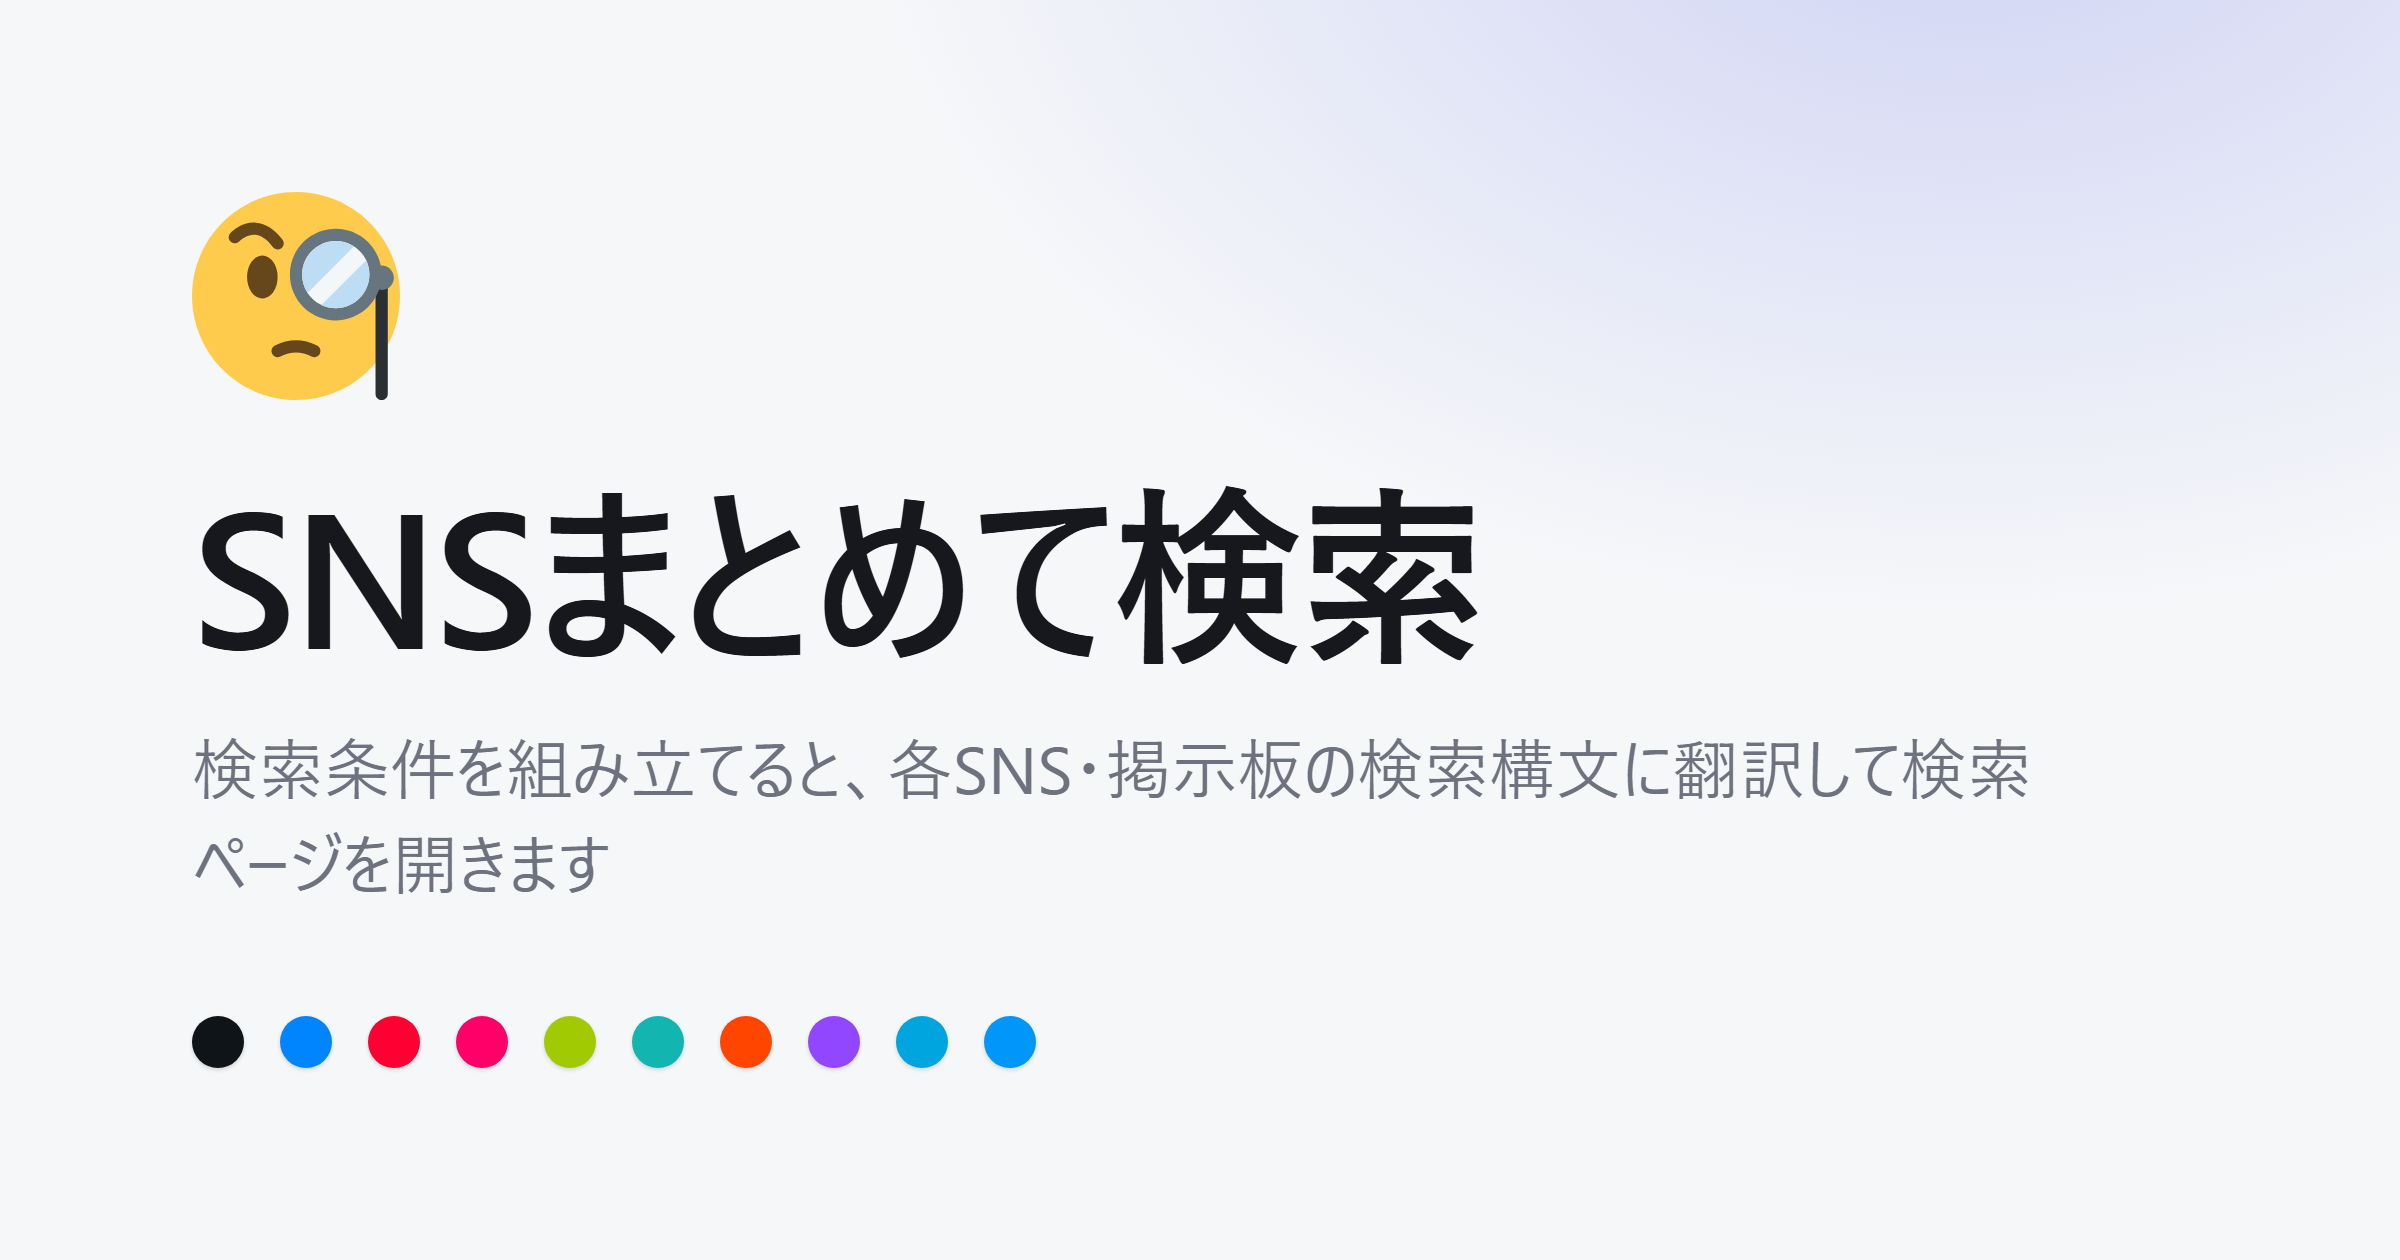
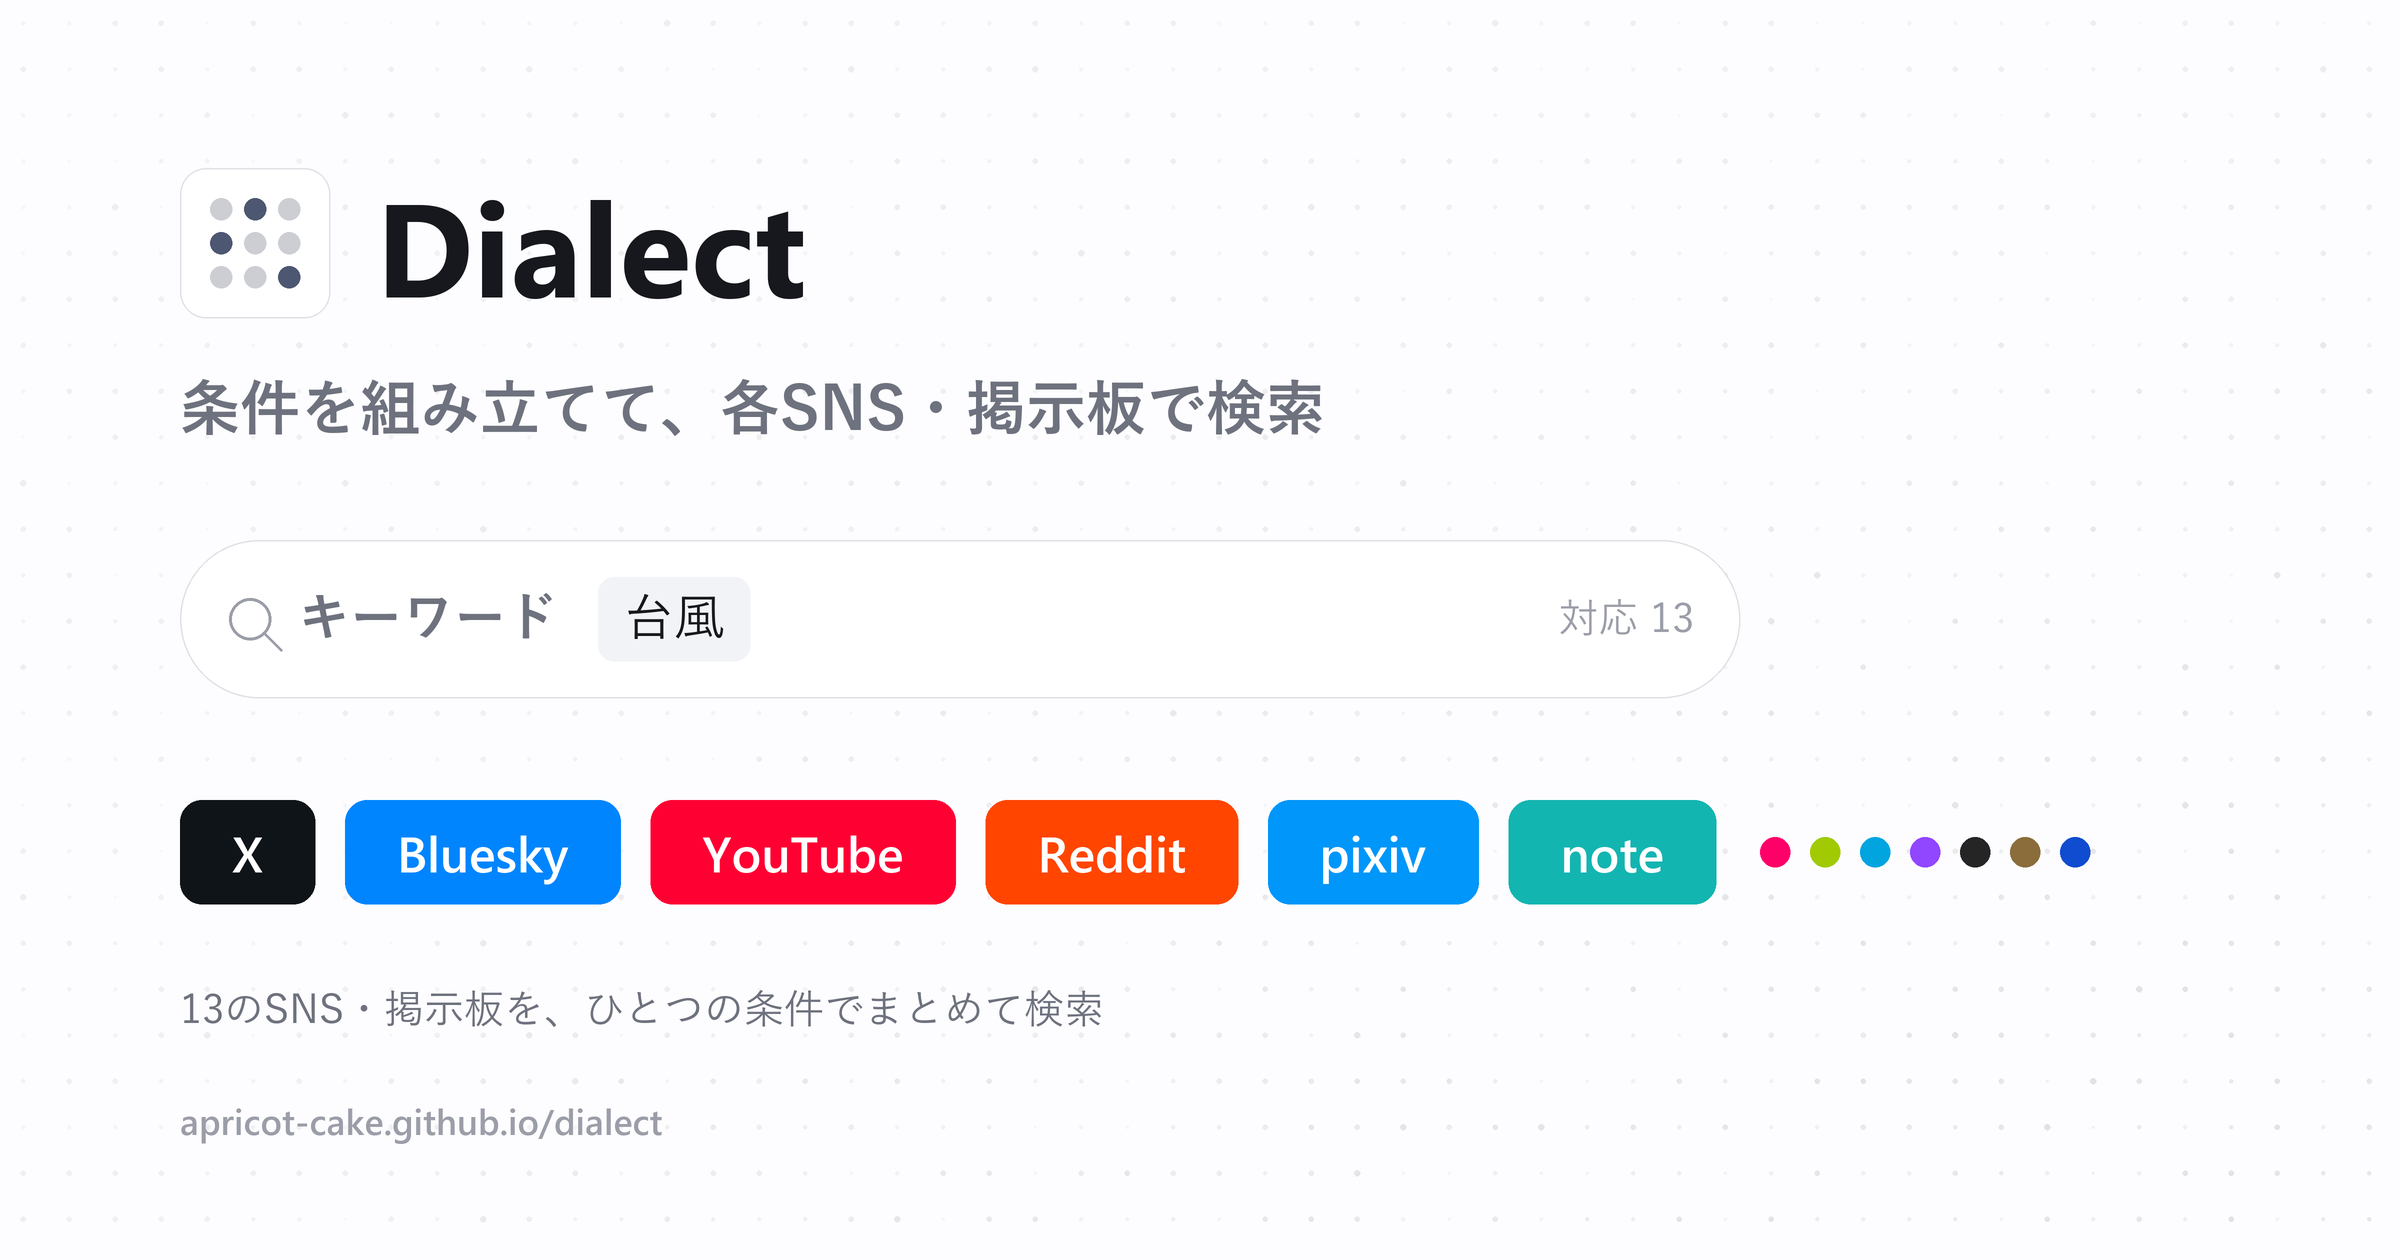
ページタイトル・OGP・READMEをDialectブランド／新UIへ追従
- index.html: title/description/OGP/Twitterカードを「SNSまとめて検索」→
  「Dialect」に。説明文はapp.tagline系に揃え、古い「18サイト」を13に修正
- README.md/README.en.md: 見出しをDialectに。削除機能(保存検索・履歴・
  Googleフォールバック・共有ボタン)の記述を除去し、2画面構成・条件を追加
  モーダルの説明へ更新。スタックをBase UI+Motionに、コード構成のgoogle.ts
  を除去しcomponents/を追記
- public/og.png: 旧2カラムUIの画像を、新UIの意匠(ドット地・ピル型条件バー・
  ブランド色ボタン)を再現した2400x1260カードに作り直し

diff --git a/index.html b/index.html
@@ -7,18 +7,18 @@
     <meta name="viewport" content="width=device-width, initial-scale=1.0" />
     <meta
       name="description"
-      content="検索条件を組み立てると、X・Bluesky・YouTube・niconico・pixiv・はてなブックマーク・5ちゃんねるなど18のSNS・掲示板の検索構文に翻訳して検索ページを開くツール"
+      content="条件を組み立てると、X・Bluesky・YouTube・Reddit・pixiv など13のSNS・掲示板の検索構文に翻訳して検索ページを開くツール。演算子を覚えていなくても、各サイトの検索を使いこなせます。"
     />
-    <title>SNSまとめて検索</title>
+    <title>Dialect — 条件を組み立てて、各SNS・掲示板で検索</title>
     <!-- OGP / Twitter Card。SNSでURLを貼ったときのリンクプレビュー用。
          og:image / og:url は origin を含む絶対URLが必須。公開ドメインが
          github.io/dialect と異なる場合は下記4つの origin を差し替える -->
     <meta property="og:type" content="website" />
-    <meta property="og:site_name" content="SNSまとめて検索" />
-    <meta property="og:title" content="SNSまとめて検索" />
+    <meta property="og:site_name" content="Dialect" />
+    <meta property="og:title" content="Dialect — 条件を組み立てて、各SNS・掲示板で検索" />
     <meta
       property="og:description"
-      content="検索条件を組み立てると、各SNS・掲示板の検索構文に翻訳して検索ページを開きます"
+      content="条件を組み立てて、各SNS・掲示板で検索。演算子を知らなくても、各サイトの検索構文に翻訳して検索ページを開きます。"
     />
     <meta property="og:url" content="https://apricot-cake.github.io/dialect/" />
     <meta
@@ -29,10 +29,10 @@
     <meta property="og:image:height" content="1260" />
     <meta property="og:locale" content="ja_JP" />
     <meta name="twitter:card" content="summary_large_image" />
-    <meta name="twitter:title" content="SNSまとめて検索" />
+    <meta name="twitter:title" content="Dialect — 条件を組み立てて、各SNS・掲示板で検索" />
     <meta
       name="twitter:description"
-      content="検索条件を組み立てると、各SNS・掲示板の検索構文に翻訳して検索ページを開きます"
+      content="条件を組み立てて、各SNS・掲示板で検索。演算子を知らなくても、各サイトの検索構文に翻訳して検索ページを開きます。"
     />
     <meta
       name="twitter:image"

diff --git a/README.en.md b/README.en.md
@@ -1,26 +1,26 @@
-# Cross-SNS Search
+# Dialect
 
 **English** · [日本語](README.md)
 
-Build a search in a form, and it is translated into each site's own search syntax (its "dialect") and opened as an operator-rich search URL in a new tab. It lets people who don't remember search operators make full use of each site's search. The UI is available in English and Japanese (toggle at the top right).
+Assemble your conditions, and each is translated into every site's own search syntax (its "dialect") and opened as an operator-rich search URL in a new tab. It lets people who don't remember search operators make full use of each site's search. The UI is available in English and Japanese (toggle at the top right).
 
 https://apricot-cake.github.io/dialect/
 
 ## How to use
 
-1. Enter conditions such as keywords under "Enter conditions". Conditions are listed in order of how many sites support them, with the supporting sites' count shown at the right of each row.
-2. Press a site's button to open that site's real search results — translated from your conditions — in a new tab (two columns on desktop, tab switching on mobile).
+1. Add conditions such as keywords, date range, or user from "Add a condition". Conditions are listed in order of how many sites support them, and you can see which sites support each one.
+2. Scroll (or use the button at the bottom) to the "Open on each site" screen, then press a site's button to open that site's real search results — translated from your conditions — in a new tab.
 
 It never fetches or displays results itself. It only opens each site's own real search-results page.
 
 ## Features
 
-- **Condition builder** — Specify around 20 conditions (exact phrase, exclusion, user, hashtag, date range, media filter, minimum likes, and more) from a form, without knowing any operator syntax.
+- **Condition builder** — Specify around 20 conditions (exact phrase, exclusion, user, hashtag, date range, media filter, minimum likes, post language, and more) from a form, without knowing any operator syntax.
 - **Enter-separated multiple words** — Keywords can be split with Enter to set several, finding posts that contain all of them (AND). A phrase with spaces (e.g. "React Aria") is kept as one unit and translated into each site's syntax (quotes, etc.). Fields that allow multiple values (exclusion, hashtags, etc.) work the same way.
-- **Filter conditions by site** — Narrows the list to just the conditions a given site supports.
-- **Clear support status** — Conditions a site can't handle are automatically dropped on launch, and what is "not available / partially works" is always shown above the button. Buttons never become unclickable.
-- **Google fallback** — For sites where exclusion, date range, etc. don't work, a launch button offers Google's `site:` search (in-site search) as an alternative.
-- **Share & save** — Assembled conditions can be shared as a URL (permalink) and saved with history in the browser (localStorage).
+- **Filter conditions by site** — When adding a condition, narrow the list to just the conditions a given site supports (this changes what is listed, not which sites you search).
+- **Clear support status** — Conditions a site can't handle are automatically dropped on launch, and what is "not available / partially works" is shown above the button. Buttons never become unclickable.
+- **Share via URL** — Assembled conditions are reflected in the URL, so bookmarking or sharing the browser URL reopens the same conditions.
+- **Dark mode / English & Japanese** — Toggle the theme and display language from the buttons at the top right.
 
 ## Supported sites
 
@@ -58,15 +58,15 @@ npm run build    # type check + build
 npm run lint     # oxlint
 ```
 
-Stack: Vite + React + TypeScript + Tailwind CSS v4 + shadcn/ui. Pushing to `main` auto-deploys to GitHub Pages via GitHub Actions.
+Stack: Vite + React + TypeScript + Tailwind CSS v4 + Base UI + Motion. Pushing to `main` auto-deploys to GitHub Pages via GitHub Actions.
 
 ### Code layout
 
 - `src/core/types.ts` — types for search concepts (ConceptId) and platform definitions
 - `src/core/platforms/*.ts` — each platform's support table (translation dictionary) and URL serializer
 - `src/core/resolve.ts` — sorts conditions into applied / approximated / unsupported
-- `src/core/google.ts` — rules for generating the Google fallback (site: search)
-- `src/core/permalink.ts` — conversion between conditions and URL parameters (the share/save format)
+- `src/core/permalink.ts` — conversion between conditions and URL parameters (the share/bookmark format)
+- `src/components/` — UI for the two screens (conditions / open on each site) and the add-condition modal
 - `src/i18n/` — all UI strings (Japanese `ja.ts` / English `en.ts`; toggle at the top right, choice saved in localStorage)
 
 ## Note

diff --git a/README.md b/README.md
@@ -1,26 +1,26 @@
-# SNSまとめて検索
+# Dialect
 
 **日本語** ・ [English](README.en.md)
 
-検索条件をフォームで組み立てると、各SNSの検索構文(方言)に翻訳して、演算子付きの検索URLをタブで開くツールです。検索演算子を覚えていない人でも、SNSの検索を使いこなせるようにします。UIは日本語・英語に対応(右上のボタンで切替)。
+条件を組み立てると、各SNS・掲示板それぞれの検索構文(方言)に翻訳して、演算子付きの検索URLをタブで開くツールです。検索演算子を覚えていない人でも、各サイトの検索を使いこなせるようにします。UIは日本語・英語に対応(右上のボタンで切替)。
 
 https://apricot-cake.github.io/dialect/
 
 ## 使い方
 
-1. 「条件を入力」でキーワードなどの条件を入力する。条件は対応サイト数の多い順に全て並んでいて、各条件の右端に対応サイトのアイコンが表示される
-2. サイトのボタンを押すと、条件を翻訳した検索結果ページが新しいタブで開く(PCは2カラム、スマホはタブ切り替え)
+1. 「条件を追加」から、キーワード・期間・ユーザー指定などの条件を選んで組み立てる。条件は対応サイト数の多い順に並び、それぞれ対応しているサイトを確認できる
+2. スクロール(または下部のボタン)で「各サイトで開く」画面へ移り、サイトのボタンを押すと、条件を翻訳した検索結果ページが新しいタブで開く
 
 検索結果の取得や表示は行いません。各サイトの本物の検索結果ページを開くだけです。
 
 ## 主な機能
 
-- **条件ビルダー** — 完全一致・除外・ユーザー指定・ハッシュタグ・期間・メディア絞り込み・最低いいね数など約20種類の条件を、演算子構文を知らなくてもフォームで指定できる
+- **条件ビルダー** — 完全一致・除外・ユーザー指定・ハッシュタグ・期間・メディア絞り込み・最低いいね数・投稿の言語など約20種類の条件を、演算子構文を知らなくてもフォームで指定できる
 - **Enter区切りの複数ワード** — キーワードはEnterで区切って複数指定でき、すべて含む投稿を探す(AND)。スペースを含む語句(例: React Aria)は分割されず、ひとまとまりのまま各サイトの構文(引用符など)に翻訳される。除外・ハッシュタグなど複数指定できる項目も同じ操作
-- **サイトで使える条件だけ表示** — 特定のサイトが使える条件だけを下の一覧に表示できる(表示が変わるだけで、検索先のサイトは変わらない)
-- **対応状況の明示** — サイトごとに対応できない条件は自動で外して起動し、何が「使えない/一部だけ効く」かをボタンの上に常時表示する。ボタンが押せなくなることはない
-- **Googleフォールバック** — 除外や期間指定などが効かないサイトでは、Googleの `site:` 検索(サイト内検索)で代替する起動ボタンを提示する
-- **共有・保存** — 組み立てた条件はURL(パーマリンク)として共有でき、ブラウザ内(localStorage)に保存・履歴も残せる
+- **サイトで使える条件だけ表示** — 条件を追加するとき、特定のサイトが使える条件だけに絞り込める(表示が変わるだけで、検索先のサイトは変わらない)
+- **対応状況の明示** — サイトごとに対応できない条件は自動で外して起動し、何が「使えない/一部だけ効く」かをボタンの上に表示する。ボタンが押せなくなることはない
+- **URLで共有** — 組み立てた条件はそのままURLに反映されるので、ブラウザのURLをブックマーク・共有すれば同じ条件で開ける
+- **ダークモード / 日本語・英語** — 右上のボタンでテーマと表示言語を切り替えられる
 
 ## 対応サイト
 
@@ -58,15 +58,15 @@ npm run build    # 型チェック + ビルド
 npm run lint     # oxlint
 ```
 
-スタック: Vite + React + TypeScript + Tailwind CSS v4 + shadcn/ui。main への push で GitHub Actions が GitHub Pages に自動デプロイします。
+スタック: Vite + React + TypeScript + Tailwind CSS v4 + Base UI + Motion。main への push で GitHub Actions が GitHub Pages に自動デプロイします。
 
 ### コード構成
 
 - `src/core/types.ts` — 検索概念(ConceptId)とプラットフォーム定義の型
 - `src/core/platforms/*.ts` — プラットフォームごとの対応表(翻訳辞書)とURLシリアライザ
 - `src/core/resolve.ts` — 検索条件を適用/近似/非対応に仕分け
-- `src/core/google.ts` — Googleフォールバック(site:検索)の生成規則
-- `src/core/permalink.ts` — 検索条件とURLパラメータの相互変換(共有・保存の形式)
+- `src/core/permalink.ts` — 検索条件とURLパラメータの相互変換(共有・ブックマークの形式)
+- `src/components/` — 2画面(条件・各サイトで開く)と条件追加モーダルなどのUI
 - `src/i18n/` — 全UI文言(日本語 `ja.ts` / 英語 `en.ts`。右上のボタンで切替、選択は localStorage に保存)
 
 ## 注意